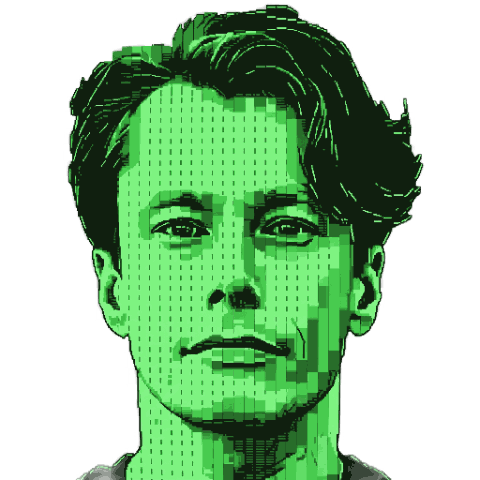
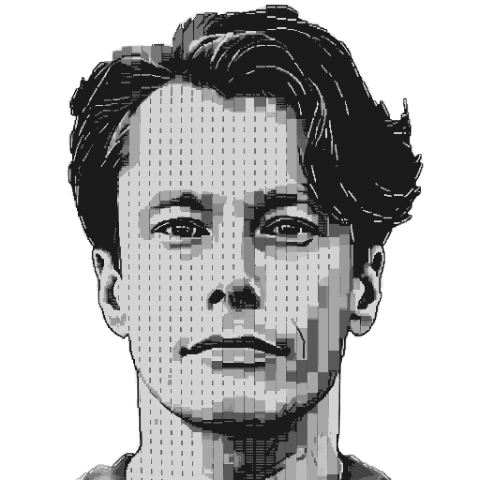
Add photo tint overlay

diff --git a/cv.html b/cv.html
@@ -19,6 +19,8 @@
   .topbar a:hover, .topbar button:hover{color:var(--fg); text-shadow:var(--glow);}
   .topbar .right{display:flex; gap:16px; align-items:center;}
   .topbar button{color:var(--fg-dim); text-decoration:none; cursor:pointer; background:none; border:none; font:inherit; letter-spacing:.03em; padding:0;}
+  #langChip{display:inline-block; min-width:2.5ch; text-align:center;}
+  #printBtn{display:inline-block; min-width:7ch; text-align:center;}
 
   .term-body{padding:20px 22px 8px; font-size:14px; line-height:1.6;}
 
@@ -27,13 +29,29 @@
 
   .profile-block{display:flex; align-items:center; justify-content:space-between; gap:24px; flex-wrap:wrap;}
   .profile-text{flex:1 1 320px; min-width:0;}
-  .avatar{
+  .avatar-frame{
+    position:relative;
     flex:0 0 auto;
     width:168px; height:168px;
-    object-fit:cover; border-radius:12px;
+    border-radius:12px;
+    overflow:hidden;
     border:1px solid var(--border);
     box-shadow:var(--glow), 0 10px 28px rgba(0,0,0,.55);
+  }
+  .avatar-frame::after{
+    content:"";
+    position:absolute; inset:0;
+    background:var(--fg);
+    mix-blend-mode:color;
+    opacity:.85;
+    pointer-events:none;
+  }
+  .avatar{
+    display:block;
+    width:100%; height:100%;
+    object-fit:cover;
     background:transparent;
+    filter:grayscale(1) contrast(1.05) brightness(1.05);
   }
 
   .title{font-size:26px; margin:4px 0 4px;}
@@ -98,6 +116,8 @@
     body{background:#050806; padding:0;}
     .term{box-shadow:none; border:none;}
     .term-body{max-height:none; overflow:visible;}
+    .avatar-frame::after{display:none;}
+    .avatar{filter:none;}
   }
 
   @media (max-width:560px){
@@ -107,7 +127,7 @@
     .profile-block{gap:10px; flex-direction:column; align-items:center; text-align:center;}
     .profile-text{order:2; flex:0 0 auto; width:100%;}
     .contact-row{justify-content:center;}
-    .avatar{order:1; width:120px; height:120px;}
+    .avatar-frame{order:1; width:120px; height:120px;}
   }
 </style>
 </head>
@@ -147,6 +167,17 @@
 <script>
 (function(){
   "use strict";
+
+  if(!window.NikitaTheme){
+    window.NikitaTheme = {
+      THEME_STORAGE_KEY: 'nikita.sh:theme',
+      LANG_STORAGE_KEY: 'nikita.sh:lang',
+      MATRIX_STORAGE_KEY: 'nikita.sh:matrix',
+      readStored: function(){ return null; },
+      writeStored: function(){},
+      applyTheme: function(){ return null; },
+    };
+  }
 
   /* ================= matrix rain ================= */
   const canvas = document.getElementById('matrix');
@@ -514,7 +545,7 @@
     html += `</div>`;
     html += `<div class="meta-line">${U.metaLine}</div>`;
     html += `</div>`;
-    html += `<img class="avatar" src="nikita-photo.png" alt="${U.name}">`;
+    html += `<div class="avatar-frame"><img class="avatar" src="nikita-photo.png" alt="${U.name}"></div>`;
     html += `</div>`;
     html += `<hr class="rule strong">`;
 

diff --git a/index.html b/index.html
@@ -283,6 +283,17 @@
 (function(){
   "use strict";
 
+  if(!window.NikitaTheme){
+    window.NikitaTheme = {
+      THEME_STORAGE_KEY: 'nikita.sh:theme',
+      LANG_STORAGE_KEY: 'nikita.sh:lang',
+      MATRIX_STORAGE_KEY: 'nikita.sh:matrix',
+      readStored: function(){ return null; },
+      writeStored: function(){},
+      applyTheme: function(){ return null; },
+    };
+  }
+
   /* ================= matrix rain ================= */
   const canvas = document.getElementById('matrix');
   const ctx = canvas.getContext('2d');
@@ -450,6 +461,10 @@
   ];
   let bootHTML = "";
   let li = 0;
+  const BOOTED_SESSION_KEY = 'nikita.sh:booted';
+  let skipBoot = false;
+  try { skipBoot = sessionStorage.getItem(BOOTED_SESSION_KEY) === '1'; } catch(e) {}
+
   function typeBoot(){
     if(li < bootLines.length){
       bootHTML += bootLines[li] + "\n";
@@ -461,13 +476,20 @@
       const delay = isTitle ? 380 : isBlank ? 150 : 260;
       setTimeout(typeBoot, delay);
     } else {
+      try { sessionStorage.setItem(BOOTED_SESSION_KEY, '1'); } catch(e) {}
       setTimeout(()=>{
         bootEl.classList.add('hidden');
         startTerminal();
       }, 400);
     }
   }
-  setTimeout(typeBoot, 150);
+
+  if(skipBoot){
+    bootEl.classList.add('hidden');
+    setTimeout(bootIntro, 0);
+  } else {
+    setTimeout(typeBoot, 150);
+  }
 
   /* ================= game overlay ================= */
   const gameOverlay = document.getElementById('gameOverlay');

diff --git a/theme.css b/theme.css
@@ -21,7 +21,7 @@
 }
 *{box-sizing:border-box;}
 html,body{height:100%;}
-html{-webkit-text-size-adjust:100%; text-size-adjust:100%;}
+html{-webkit-text-size-adjust:100%; text-size-adjust:100%; scrollbar-gutter:stable; overflow-y:scroll;}
 body{
   margin:0;
   background:
